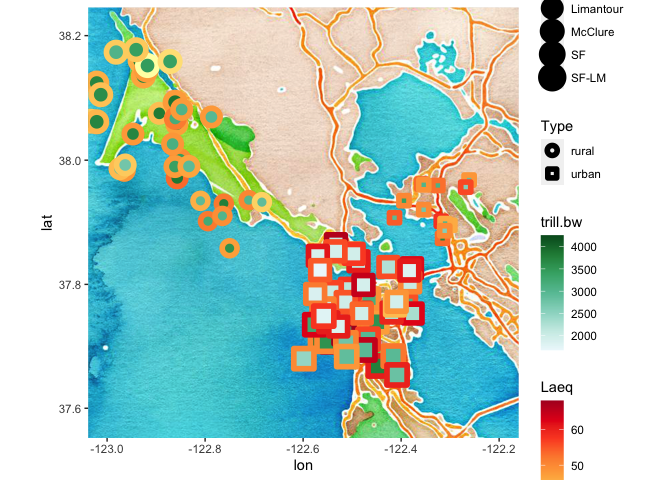
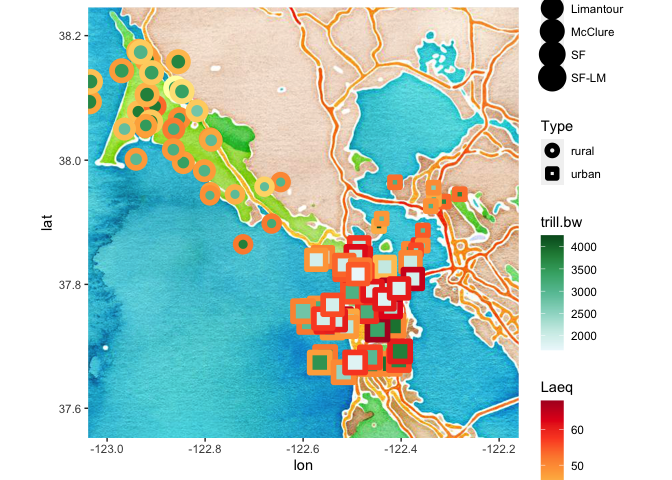
Fixed good plot faceting issue

Changed region(s): [[0.4062, 0.3438, 0.7188, 0.8125], [0.125, 0.0625, 0.4375, 0.5312]]

diff --git a/hw_7.md b/hw_7.md
@@ -51,30 +51,6 @@ library(tidyverse)
 library(ggmap)
 library(cowplot)
 
-
-## Import data
-data <- read.csv("hw_7_data.csv")
-glimpse(data)
-```
-
-    ## Rows: 93
-    ## Columns: 14
-    ## $ Band.Numbe     <int> 144100566, 277110618, 277110619, 266127820, 144100539, …
-    ## $ Laeq           <dbl> 45.70000, 43.60000, 53.40000, 47.65000, 45.90000, 48.10…
-    ## $ num.songs      <int> 1, 1, 10, 10, 1, 1, 1, 3, 5, 10, 1, 1, 10, 6, 10, 10, 1…
-    ## $ Age            <int> 5, 5, 5, 5, 5, 5, 5, 5, 5, 5, 5, 4, 5, 4, 5, 5, 4, 5, 5…
-    ## $ Location       <chr> "RICH", "LIMA", "LIMA", "ABLA", "FOFU", "LIMA", "FOFU",…
-    ## $ Dialect        <chr> "Berkeley", "Limantour", "Limantour", "McClure", "SF-LM…
-    ## $ Type           <chr> "urban", "rural", "rural", "rural", "urban", "rural", "…
-    ## $ NORTH.COOR     <dbl> 37.90880, 38.02654, 38.02740, 38.12130, 37.72398, 38.02…
-    ## $ WEST.COORD     <dbl> -122.3504, -122.8836, -122.8908, -122.9420, -122.5046, …
-    ## $ trill.bw       <dbl> 4253.800, 3826.700, 3849.409, 3884.490, 3856.500, 3710.…
-    ## $ trill.rate     <dbl> 7.684033, 11.463508, 10.700422, 9.332414, 9.011039, 12.…
-    ## $ body.condition <dbl> 28.79985, 33.08541, 32.70637, 34.93203, 33.23835, 31.57…
-    ## $ deviation      <dbl> 18.90000, 18.56250, 26.26361, 20.22700, 20.77000, 18.80…
-    ## $ all.dev        <dbl> -6.73, -2.11, -1.79, -1.11, -0.24, -0.51, 2.23, 2.53, 0…
-
-``` r
 ## Create a summary data frame -- mean background noise for each dialect
 dialect.summary <- data %>%
   group_by(Dialect) %>%
@@ -108,14 +84,14 @@ SF <- presidio +
 SF.LM <- lame +
   geom_point(data = data, mapping = aes(x = WEST.COORD, y = NORTH.COOR, color = trill.bw), size = 2.5) +
   scale_color_distiller(palette = "OrRd") +
-  theme(axis.ticks = element_blank(), axis.text = element_blank(), axis.title = element_blank(), legend.position = "none") +
-  labs(title = "Lake Merced", subtitle = "Mean noise (dB) = 55.16")
+  theme(axis.ticks = element_blank(), axis.text = element_blank(), axis.title.x = element_blank(), legend.position = "none") +
+  labs(title = "Lake Merced", subtitle = "Mean noise (dB) = 55.16", y = "")
 
 berkeley <- richmond +
   geom_point(data = data, mapping = aes(x = WEST.COORD, y = NORTH.COOR, color = trill.bw), size = 2.5) +
   scale_color_distiller(palette = "OrRd") +
-  theme(axis.ticks = element_blank(), axis.text = element_blank(), axis.title = element_blank(), legend.position = "none") +
-  labs(title = "Berkeley", subtitle = "Mean noise (dB) = 51.29")
+  theme(axis.ticks = element_blank(), axis.text = element_blank(), axis.title.x = element_blank(), legend.position = "none") +
+  labs(title = "Berkeley", subtitle = "Mean noise (dB) = 51.29", y = "")
 
 clear <- commonweal +
   geom_point(data = data, mapping = aes(x = WEST.COORD, y = NORTH.COOR, color = trill.bw), size = 2.5) +
@@ -126,31 +102,31 @@ clear <- commonweal +
 lima <- limantour +
   geom_point(data = data, mapping = aes(x = WEST.COORD, y = NORTH.COOR, color = trill.bw), size = 2.5) +
   scale_color_distiller(palette = "OrRd") +
-  theme(axis.ticks = element_blank(), axis.text = element_blank(), axis.title = element_blank(), legend.position = "none") +
-  labs(title = "Limantour", subtitle = "Mean noise (dB) = 47.57")
+  theme(axis.ticks = element_blank(), axis.text = element_blank(), axis.title.x = element_blank(), legend.position = "none") +
+  labs(title = "Limantour", subtitle = "Mean noise (dB) = 47.57", y = "")
 
 mcclure <- abla +
   geom_point(data = data, mapping = aes(x = WEST.COORD, y = NORTH.COOR, color = trill.bw), size = 2.5) +
   scale_color_distiller(palette = "OrRd") +
-  theme(axis.ticks = element_blank(), axis.text = element_blank(), axis.title = element_blank(), legend.position = "none") +
-  labs(title = "McClure", subtitle = "Mean noise (dB) = 43.53")
+  theme(axis.ticks = element_blank(), axis.text = element_blank(), axis.title.x = element_blank(), legend.position = "none") +
+  labs(title = "McClure", subtitle = "Mean noise (dB) = 43.53", y = "")
 
 
 ## A dummy plot to extract the legend from...
 dummyplot <- ggplot(data, aes(x = WEST.COORD, y = NORTH.COOR, color = trill.bw)) +
   geom_point() +
-  scale_color_distiller(palette = "OrRd", name = "Trill bandwidth (Hz)")
+  scale_color_distiller(palette = "OrRd", name = str_wrap("Trill bandwidth (Hz)", width = 3))
 
 
 ## Can't facet wrap this, so I'm arranging with ggdraw and the package cowplot
-toprow <- plot_grid(SF, SF.LM, berkeley, align = "h", axis = "b", ncol = 3)
-bottomrow <- plot_grid(clear, lima, mcclure, align = "h", axis = "b", ncol = 3)
+toprow <- plot_grid(SF, SF.LM, berkeley, align = "h", axis = "bt", ncol = 3)
+bottomrow <- plot_grid(clear, lima, mcclure, align = "h", axis = "bt", ncol = 3)
 
 legend <- get_legend(dummyplot)
 
 ggdraw(plot_grid(plot_grid(toprow, bottomrow, ncol=1, align='v'),
                  plot_grid(NULL, legend, ncol=1),
-                 rel_widths=c(1, 0.2)))
+                 rel_widths=c(1, .15), greedy = FALSE))
 ```
 
 ![](hw_7_files/figure-gfm/marginally_better_plot-1.png)<!-- -->
